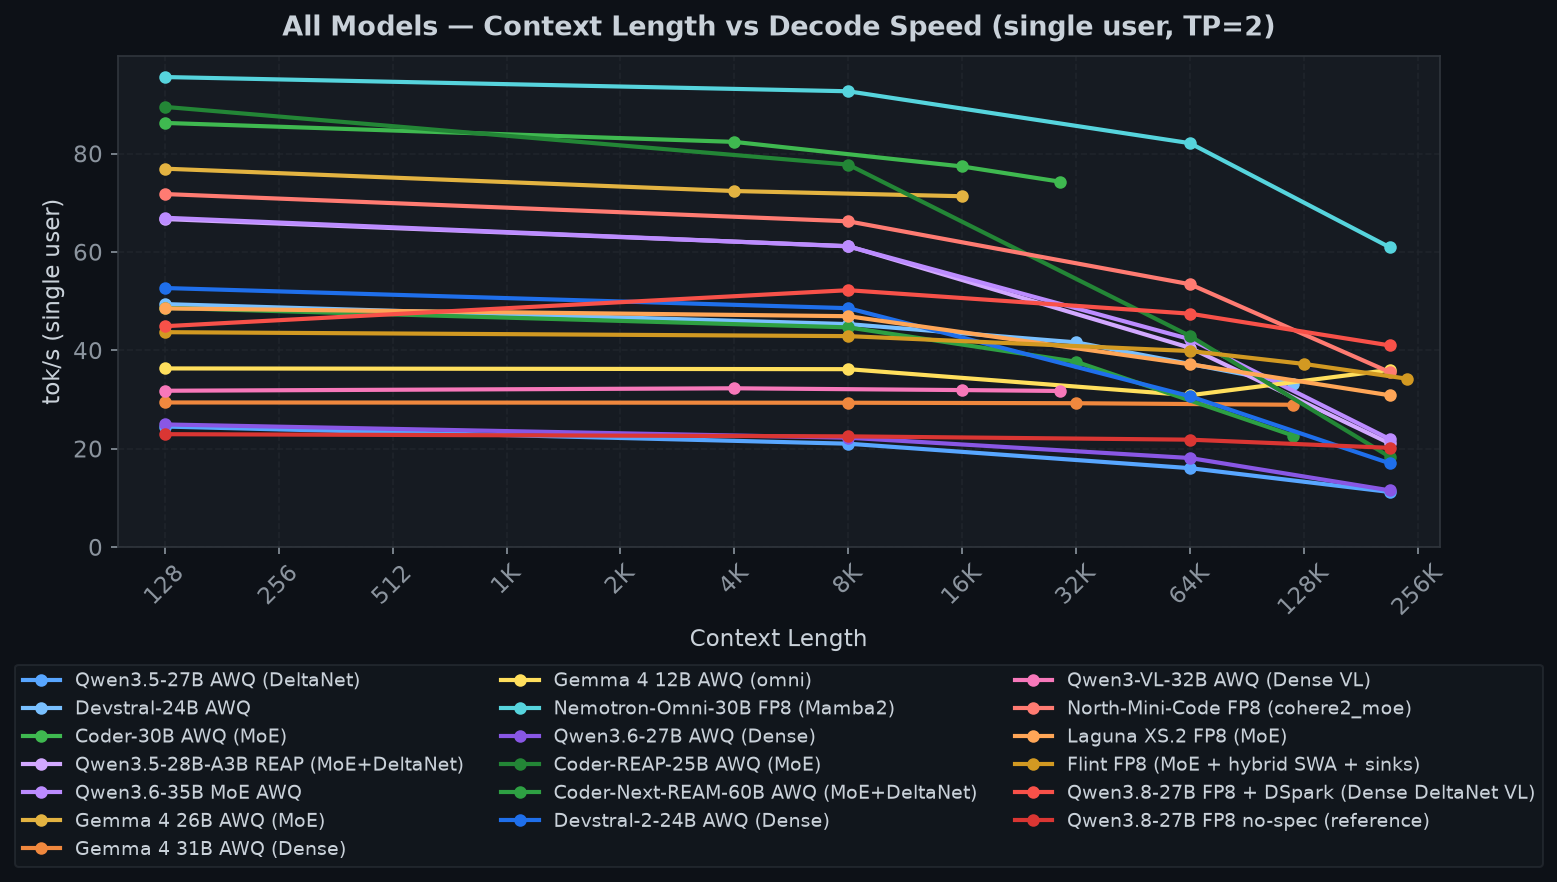
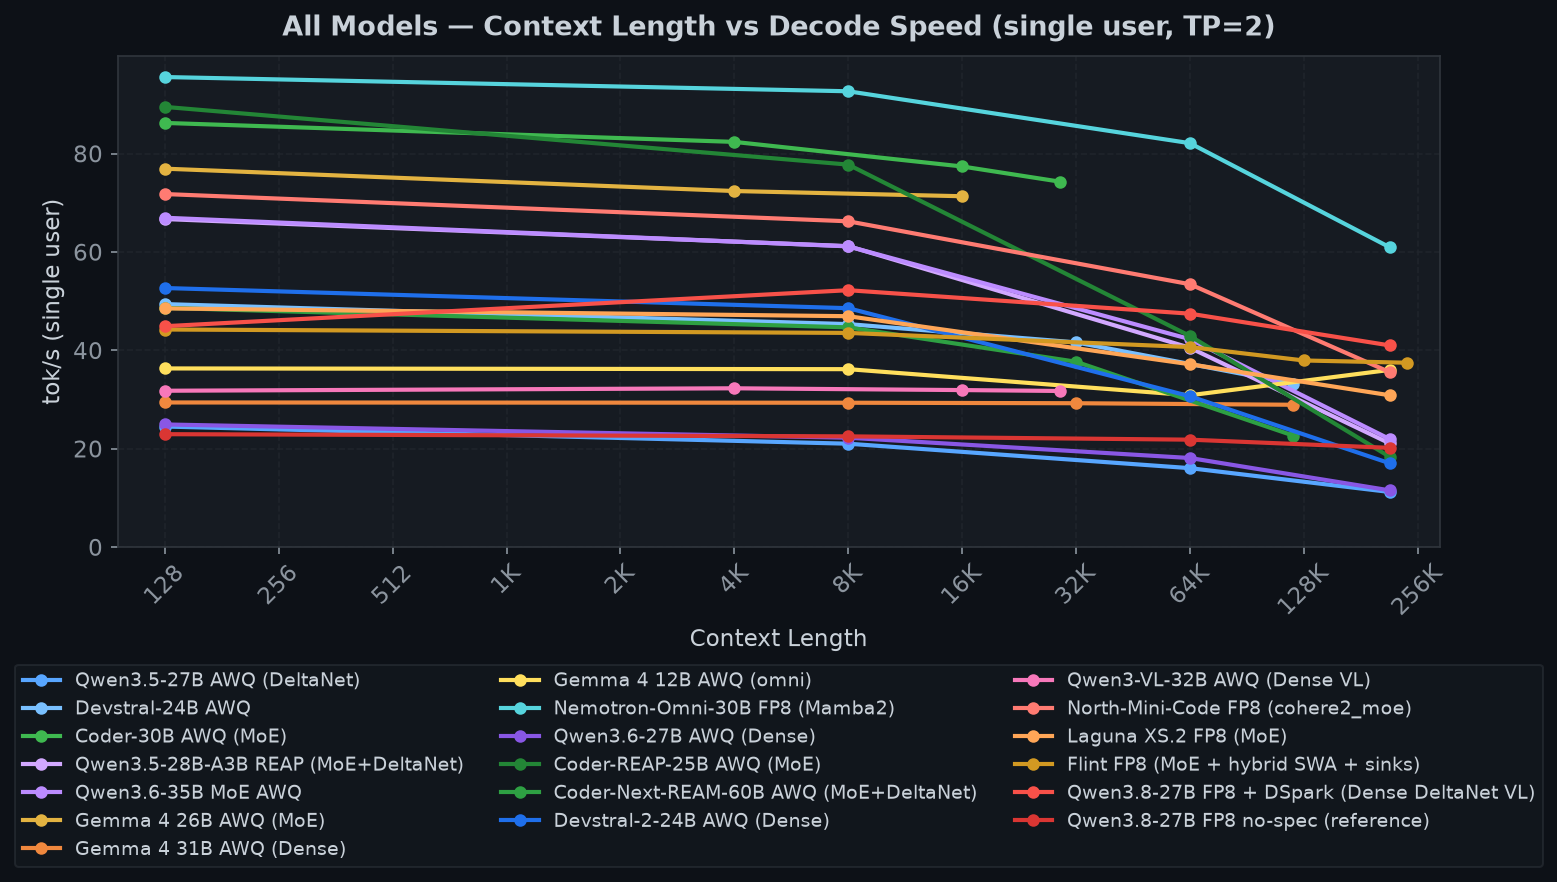
Flint FP8 KV preset default re-measured for the fleet table: 44.2 / 43.6 / 40.7 / 37.9 / 37.5 tok/s at 14 / 7.3K / 58K / 117K / 219K (bf16 KV 43.7 … 34.2), pools 1.05M / 21K, text probes 3/3; qwen35 / qwen35-moe extra_buffer boot gates (strategy live, caps 5/5, 1-token turns 327 / 996 and 95 / 482 m
Claude-Session: https://claude.ai/code/session_0199fcoSbidyi54vqWffFLeK

Changed region(s): [[0.0925, 0.3673, 0.7707, 0.398], [0.7707, 0.398, 0.9249, 0.4286]]

diff --git a/benchmarks/FINDINGS.md b/benchmarks/FINDINGS.md
@@ -322,7 +322,11 @@ qwen36-27b (1-token turn 4.8 / 3.5 / 11.4 s → 0.28 / 0.75 / 1.34 s, needle 12/
 0.10 / 0.47 / 0.90 s, needle 12/12) shipped; qwen35 (6.5 / 4.4 / 11.7 s → 0.28 / 0.77 / 1.38 s) and qwen35-moe
 (1.3 / 1.1 / 3.9 s → 0.10 / 0.47 / 0.92 s) shipped on the user's call the same day — their single-message grids are
 identical and their across-turn cells shuffle through the thinking cap on both arms, which the user judged a
-reasoning-length flip rather than a quality trade; coder-next-ream null — its
+reasoning-length flip rather than a quality trade. Preset boot gates (2026-11-02, first boot of the day, strategy
+`extra_buffer` in the server args, cached tokens = the full primed prefix): qwen35 1-token turn 327 / 996 ms at
+6.5K / 52K, caps 5/5; qwen35-moe 95 / 482 ms, caps 5/5
+([qwen35](profiling/hybrid-cache-extra-buffer-gate-qwen35-2026-11-02.json),
+[qwen35-moe](profiling/hybrid-cache-extra-buffer-gate-qwen35-moe-2026-11-02.json)); coder-next-ream null — its
 template has no think block, so the prompt-end snapshot already hits under `no_buffer`. Receipts:
 [`profiling/hybrid-cache-extra-buffer-qwen38-2026-11-01.md`](profiling/hybrid-cache-extra-buffer-qwen38-2026-11-01.md),
 [`profiling/hybrid-cache-turn-granularity-qwen38-2026-11-01.json`](profiling/hybrid-cache-turn-granularity-qwen38-2026-11-01.json).
@@ -352,7 +356,10 @@ layers (525K → 441K) to the SWA layers (10.5K → 44K) at equal speed; 0.02 st
 43.3 / 41.4 / 39.2 vs 43.3 / 42.4 / 39.6 / 36.3 tok/s, pools 1,050,610 / 21,012 vs 525,305 / 10,506 tokens, natural needle
 on the receipt's exact cells 11/12 vs bf16's 10/12 (32K @ 0.9 gained; at 243,481 tokens 0.1 gained and 0.5 lost — the soft
 edge the first-boot receipt describes). Adopted as the Flint preset default on the user's call (2026-11-01;
-`KV_DTYPE=auto` restores bf16 KV); the fleet-table decode points are re-measured under the new default.
+`KV_DTYPE=auto` restores bf16 KV). Fleet-table re-measure under the new default (2026-11-02, 3-run medians,
+[receipt](flint-fp8/decode-fp8kv-default-2026-11-02.json)): **44.2 / 43.6 / 40.7 / 37.9 / 37.5 tok/s at 14 / 7.3K /
+58K / 117K / 219K** input (bf16 KV read 43.7 / 42.9 / 39.9 / 37.3 / 34.2), pools 1,050,610 / 21,012 tokens, text
+probes 3/3 (vision / video are not supported by the model).
 
 ## Long-context attention
 

diff --git a/README.md b/README.md
@@ -27,8 +27,8 @@ in [experiments/](experiments/README.md).
   no-spec server (`QWEN38_SPEC=0`, 530K-token pool for true 256K work; the DSpark pool is 206K). Cold
   prefill of a 197K prompt is 211 s; a 1-token agentic turn on a 176K cached prefix is 0.17–0.35 s
   (`extra_buffer` hybrid cache + the 64-row split-KV turn route); capability probe 5/5.
-- **Flint FP8 serves** (patch 105, strict tool schemas) with an FP8 KV cache (2× pools, +2–8 % decode over
-  bf16 KV): 43.7 → 34.2 tok/s from 14 to 219K actual input; basic / tool-call / thinking probes pass, the
+- **Flint FP8 serves** (patch 105, strict tool schemas) with an FP8 KV cache (1.05M full-attention pool
+  tokens, 2× bf16's): 44.2 → 37.5 tok/s from 14 to 219K actual input; basic / tool-call / thinking probes pass, the
   learned-sink kernels match a PyTorch reference, and natural-text needle retrieval holds to 131K at every
   depth and to the last 10 % of the window at 243–248K
   ([receipt](benchmarks/quality/flint/needle-natural-fp8-2026-10-31.md), [KV A/B](benchmarks/profiling/flint-ab-2026-11-01.md)).
@@ -51,7 +51,7 @@ per-model curves are under [benchmarks/](benchmarks/README.md).
 |---|---|---:|---:|
 | North-Mini-Code-1.0 | FP8 MoE + hybrid SWA | 71.8 (128) | 35.6 (197K) |
 | Laguna-XS.2 | FP8 MoE + hybrid SWA | **74.0 (62)** | **55.1 (220K)** |
-| Flint (40B/2.5B-active) | FP8 MoE + hybrid SWA + sinks | 43.7 (14) | 34.2 (219K) |
+| Flint (40B/2.5B-active) | FP8 MoE + hybrid SWA + sinks, FP8 KV | 44.2 (14) | 37.5 (219K) |
 | Nemotron-3-Nano-Omni-30B | FP8 Mamba2 hybrid MoE | 95.6 (28) | 60.9 (198K) |
 | Qwen3-Coder-30B-A3B | AWQ MoE | 88.3 (20) | 57.2 (29K) |
 | Qwen3-Coder-REAP-25B-A3B | AWQ MoE | 89.5 (20) | 18.4 (197K) |
